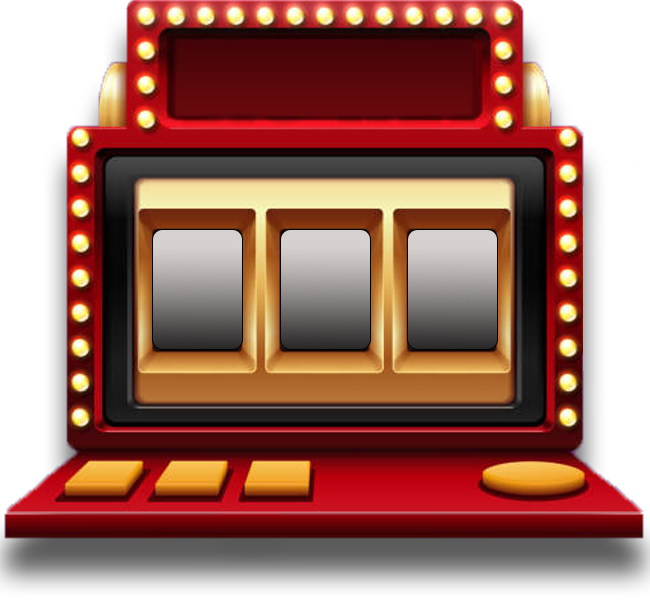
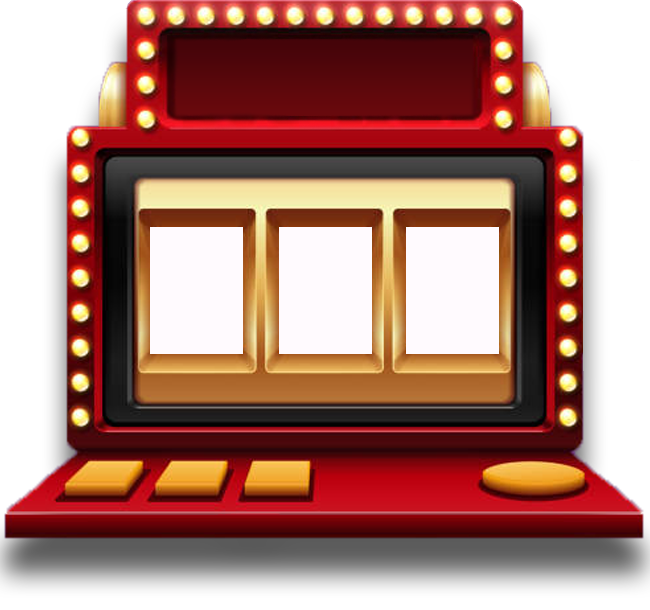
changed fruit images

Changed region(s): [[0.2154, 0.3738, 0.4, 0.5918], [0.6154, 0.3738, 0.7692, 0.5918], [0.4308, 0.3738, 0.5846, 0.5918]]

diff --git a/src/models/slot.js b/src/models/slot.js
@@ -13,7 +13,8 @@ class Slot {
 
         let mask = new PIXI.Graphics();
         mask.beginFill(0xff0000);
-        mask.drawRect(0, 0, 90, 120);
+        mask.drawRect(0, 0, 95, 128);
+        mask.position.set(-3, -4)
         mask.endFill();
 
         let maskContainer = new PIXI.Container();
